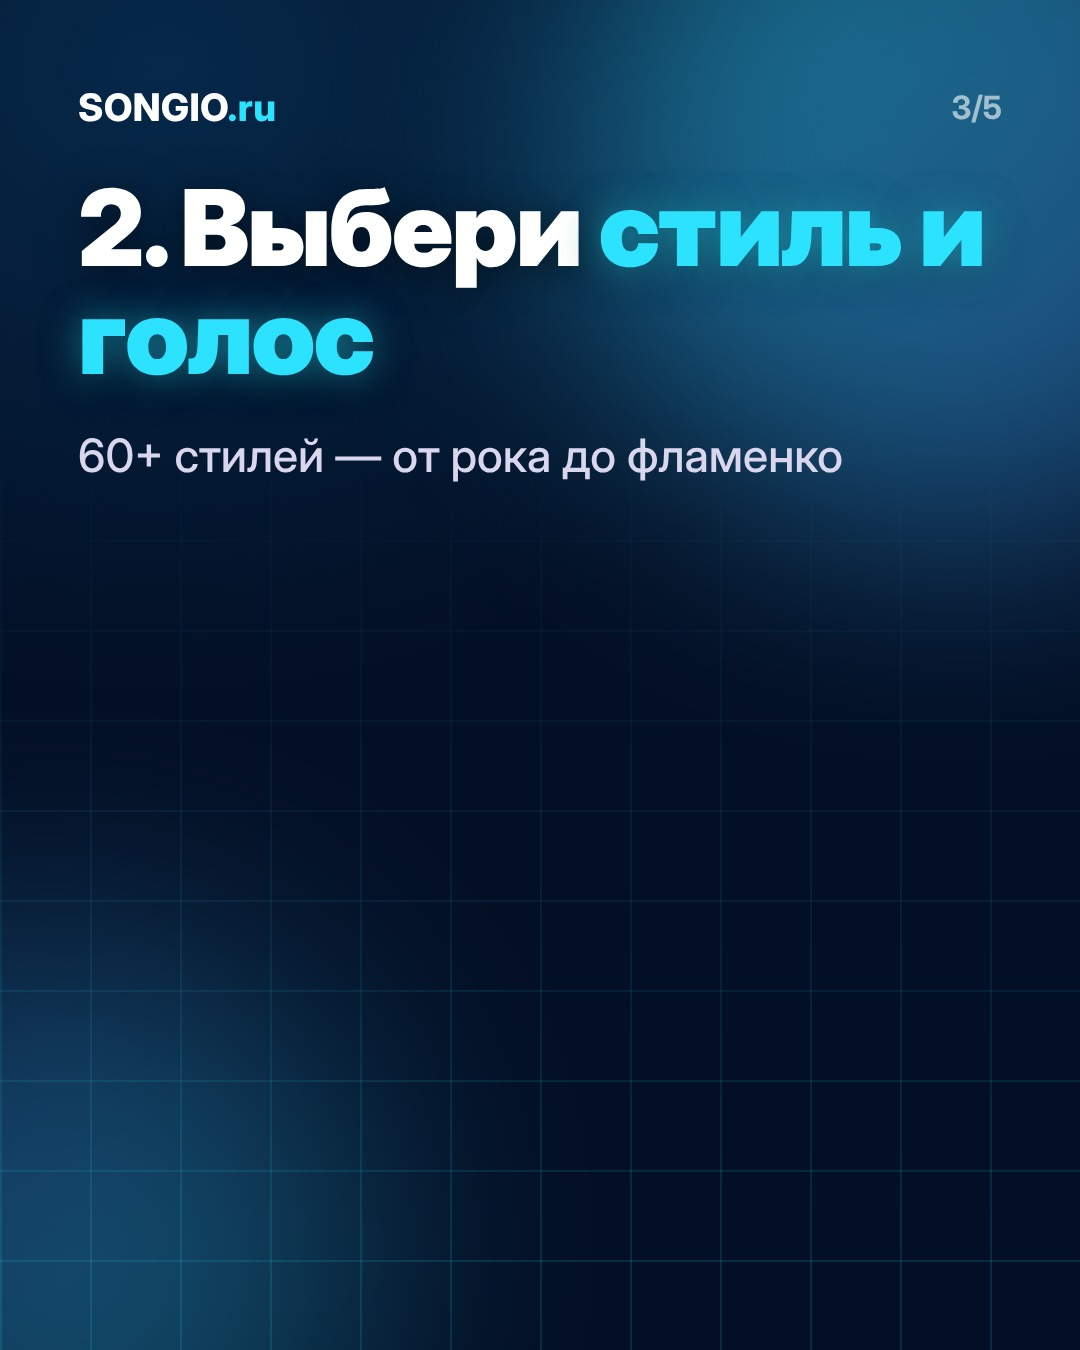
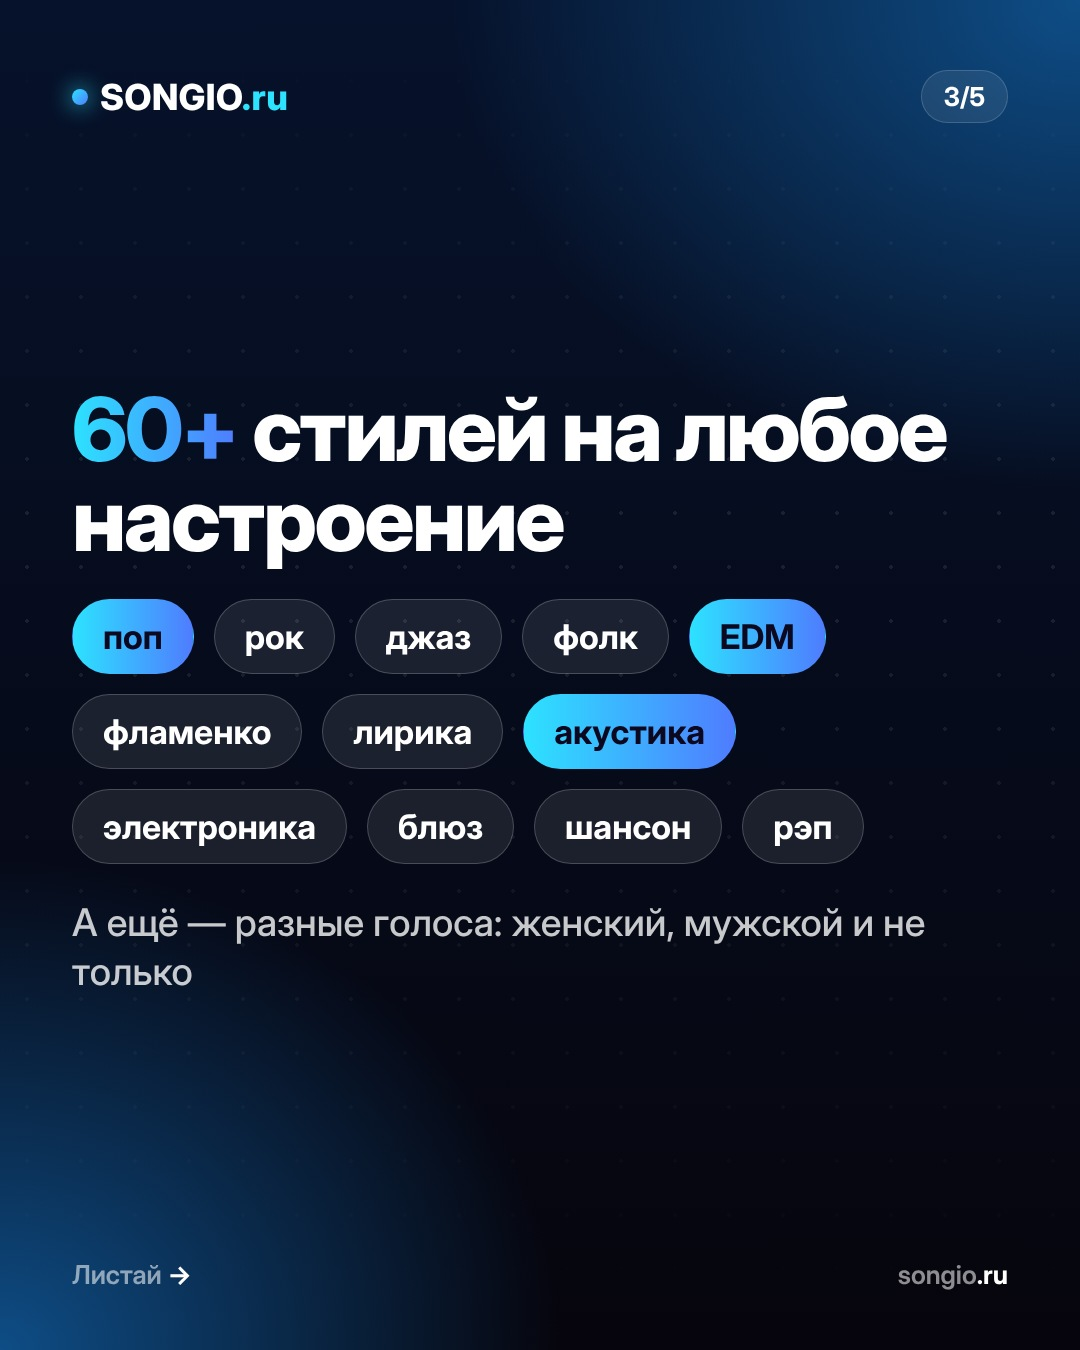
SONGIO 2026-11-20: redesign as infographic cards (glass/bento/player)
Claude-Session: https://claude.ai/code/session_01RuTsTvcxCSgcSybpDJXT3B

diff --git a/songio/make_infographics.py b/songio/make_infographics.py
@@ -1,0 +1,211 @@
+"""SONGIO infographic cards v2 (glass / bento / diagrams), 1080x1350 JPG via headless Chrome.
+Usage: python3 make_infographics.py out_dir [series ...]   (series: fast intro cat)
+Slides are defined in SERIES at the bottom; each is (file, theme, builder-html)."""
+import os, random, subprocess, sys, tempfile, hashlib
+
+W, H = 1080, 1350
+THEMES = {  # accent1, accent2, bg-glow1, bg-glow2
+ "pink":   ("#ff4fb8", "#8b5cf6", "#5b1d7a", "#1a0838"),
+ "cyan":   ("#2de2ff", "#4f7cff", "#0e4d86", "#06122b"),
+ "amber":  ("#ffc247", "#ff5e62", "#7a2a10", "#1f0a06"),
+ "violet": ("#b39dff", "#6d5dfc", "#352a9c", "#0c0929"),
+ "green":  ("#4ff0a0", "#14b8c6", "#0b5a49", "#031712"),
+}
+
+CSS = """
+*{box-sizing:border-box;margin:0;padding:0}
+body{width:1080px;height:1350px;overflow:hidden;position:relative;color:#fff;
+ font-family:'Inter Display','Inter','DejaVu Sans',sans-serif;background:#07060f}
+.bg{position:absolute;inset:0;background:
+ radial-gradient(900px 700px at 100% 0%,var(--g1) 0%,transparent 70%),
+ radial-gradient(800px 700px at 0% 100%,var(--g1) 0%,transparent 70%),
+ linear-gradient(180deg,var(--g2),#06050d)}
+.dots{position:absolute;inset:0;background-image:radial-gradient(rgba(255,255,255,.09) 2px,transparent 2px);background-size:54px 54px;
+ -webkit-mask-image:linear-gradient(180deg,transparent,#000 40%,transparent);mask-image:linear-gradient(180deg,transparent,#000 40%,transparent)}
+.wrap{position:absolute;inset:0;padding:70px 72px 60px;display:flex;flex-direction:column;z-index:3}
+.top{display:flex;justify-content:space-between;align-items:center}
+.logo{font-weight:800;font-size:36px;letter-spacing:.5px;display:flex;align-items:center;gap:12px}
+.logo i{width:16px;height:16px;border-radius:50%;background:linear-gradient(135deg,var(--a),var(--b));box-shadow:0 0 22px var(--a)}
+.logo span{color:var(--a)}
+.pg{font-weight:700;font-size:26px;padding:10px 22px;border-radius:40px;background:rgba(255,255,255,.08);border:1.5px solid rgba(255,255,255,.16)}
+.main{flex:1;display:flex;flex-direction:column;justify-content:center;gap:34px;min-height:0}
+.foot{display:flex;justify-content:space-between;align-items:center;font-size:26px;font-weight:600;color:rgba(255,255,255,.55)}
+.foot b{color:#fff;font-weight:700}
+h1{font-weight:800;font-size:104px;line-height:1.02;letter-spacing:-3px}
+h1.m{font-size:88px;letter-spacing:-2.5px}
+h1 em,.g{font-style:normal;background:linear-gradient(90deg,var(--a),var(--b));-webkit-background-clip:text;background-clip:text;color:transparent}
+.lead{font-size:38px;line-height:1.3;color:rgba(255,255,255,.78);font-weight:500}
+.lead b{color:#fff}
+.glass{background:linear-gradient(160deg,rgba(255,255,255,.12),rgba(255,255,255,.04));border:1.5px solid rgba(255,255,255,.18);
+ border-radius:40px;box-shadow:0 30px 80px rgba(0,0,0,.35)}
+.pill{display:inline-flex;align-items:center;gap:12px;padding:14px 30px;border-radius:60px;font-weight:800;font-size:30px;
+ color:#0b0820;background:linear-gradient(90deg,var(--a),var(--b));align-self:flex-start;box-shadow:0 12px 40px color-mix(in srgb,var(--a) 45%,transparent)}
+.chip{display:inline-block;padding:16px 30px;border-radius:60px;font-size:34px;font-weight:700;background:rgba(255,255,255,.09);border:1.5px solid rgba(255,255,255,.2)}
+.chip.on{background:linear-gradient(90deg,var(--a),var(--b));color:#0b0820;border-color:transparent}
+.btn{align-self:flex-start;padding:26px 52px;border-radius:70px;font-weight:800;font-size:44px;color:#0b0820;
+ background:linear-gradient(90deg,var(--a),var(--b));box-shadow:0 18px 60px color-mix(in srgb,var(--a) 55%,transparent)}
+/* player */
+.player{padding:30px;display:flex;align-items:center;gap:28px}
+.art{width:128px;height:128px;border-radius:30px;flex:none;background:linear-gradient(135deg,var(--a),var(--b));
+ display:flex;align-items:center;justify-content:center;font-size:62px;color:#0b0820;font-weight:800}
+.pl-b{flex:1;min-width:0}
+.pl-t{font-size:32px;font-weight:800;margin-bottom:6px}
+.pl-s{font-size:26px;color:rgba(255,255,255,.6);font-weight:600;margin-bottom:14px}
+.wave{display:flex;align-items:center;gap:5px;height:64px}
+.wave i{flex:1;border-radius:4px;background:rgba(255,255,255,.28);min-width:3px}
+.wave i.on{background:linear-gradient(180deg,var(--a),var(--b))}
+.play{width:84px;height:84px;border-radius:50%;flex:none;background:#fff;display:flex;align-items:center;justify-content:center}
+.play:after{content:"";border-left:28px solid #0b0820;border-top:17px solid transparent;border-bottom:17px solid transparent;margin-left:8px}
+.tag{display:inline-block;font-size:24px;font-weight:800;padding:8px 18px;border-radius:14px;background:rgba(255,255,255,.14);margin-bottom:10px;letter-spacing:.5px}
+/* steps */
+.steps{position:relative;display:flex;flex-direction:column;gap:30px}
+.steps:before{content:"";position:absolute;left:61px;top:80px;bottom:80px;width:5px;border-radius:4px;background:linear-gradient(180deg,var(--a),var(--b));opacity:.55}
+.step{display:flex;gap:34px;align-items:center;padding:34px 38px;position:relative}
+.num{width:90px;height:90px;border-radius:28px;flex:none;background:linear-gradient(135deg,var(--a),var(--b));color:#0b0820;
+ font-weight:800;font-size:44px;display:flex;align-items:center;justify-content:center;box-shadow:0 10px 36px color-mix(in srgb,var(--a) 50%,transparent)}
+.st-t{font-size:48px;font-weight:800;letter-spacing:-1px;margin-bottom:6px}
+.st-s{font-size:30px;color:rgba(255,255,255,.68);font-weight:500;line-height:1.25}
+/* bento */
+.bento{display:grid;grid-template-columns:1fr 1fr;gap:26px}
+.tile{padding:40px 38px;display:flex;flex-direction:column;justify-content:space-between;min-height:290px}
+.tile.w{grid-column:span 2;min-height:220px}
+.big{font-size:128px;font-weight:800;letter-spacing:-5px;line-height:1}
+.tl{font-size:32px;font-weight:600;color:rgba(255,255,255,.72);line-height:1.25;margin-top:14px}
+.tl b{color:#fff}
+.cloud{display:flex;flex-wrap:wrap;gap:20px}
+.arrow{align-self:center;width:0;height:0;border-left:30px solid transparent;border-right:30px solid transparent;border-top:42px solid var(--a);opacity:.9}
+.pm{padding:38px 42px;font-size:44px;line-height:1.38;font-weight:600}
+.pm .k{padding:2px 14px;border-radius:14px;font-weight:700}
+.k1{background:color-mix(in srgb,#ffc247 38%,transparent)}.k2{background:color-mix(in srgb,#ff4fb8 38%,transparent)}
+.k3{background:color-mix(in srgb,#2de2ff 38%,transparent)}.k4{background:color-mix(in srgb,#4ff0a0 38%,transparent)}
+.leg{display:grid;grid-template-columns:1fr 1fr;gap:22px}
+.leg div{display:flex;align-items:center;gap:18px;font-size:34px;font-weight:700}
+.leg s{display:block;width:34px;height:34px;border-radius:11px;flex:none;text-decoration:none}
+.vs{display:flex;flex-direction:column;gap:26px}
+.vs .glass{padding:36px 40px}
+.vs .lab{font-size:26px;font-weight:800;letter-spacing:1px;margin-bottom:12px}
+.vs .tx{font-size:40px;font-weight:600;line-height:1.3}
+.vs .bad .lab{color:#ff8a8a}.vs .good .lab{color:var(--a)}
+.vs .good{border-color:var(--a);box-shadow:0 0 0 2px var(--a),0 30px 80px rgba(0,0,0,.35)}
+/* timeline (video) */
+.tlr{padding:34px;display:flex;flex-direction:column;gap:18px}
+.row{display:flex;gap:12px;height:96px}
+.clip{border-radius:20px;flex:1;display:flex;align-items:center;padding:0 22px;font-size:26px;font-weight:700;color:#0b0820}
+.audio{height:150px;border-radius:24px;border:2px dashed var(--a);padding:0 24px;display:flex;align-items:center;background:rgba(255,255,255,.05)}
+.audio .wave{width:100%;height:96px}
+.rl{font-size:24px;font-weight:700;color:rgba(255,255,255,.6);letter-spacing:1px}
+"""
+
+def wave(seed, n=34, on=0.55):
+    r = random.Random(seed); out = ""
+    for k in range(n):
+        h = int(14 + 50 * abs(__import__("math").sin(k * .42 + r.random())) ** .8 * r.uniform(.6, 1))
+        out += f'<i class="{"on" if k < n*on else ""}" style="height:{h}px"></i>'
+    return f'<div class="wave">{out}</div>'
+
+def player(name, sub, seed, icon="♪", on=.55):
+    return (f'<div class="glass player"><div class="art">{icon}</div><div class="pl-b"><div class="pl-t">{name}</div>'
+            f'<div class="pl-s">{sub}</div>{wave(seed, on=on)}</div><div class="play"></div></div>')
+
+def frame(theme, pg, body, last=False):
+    a, b, g1, g2 = THEMES[theme]
+    hint = '<span>Листай <b>→</b></span>' if not last else '<span></span>'
+    return f"""<!doctype html><html><head><meta charset="utf-8"><style>:root{{--a:{a};--b:{b};--g1:{g1};--g2:{g2}}}{CSS}</style></head>
+<body><div class="bg"></div><div class="dots"></div><div class="wrap">
+<div class="top"><div class="logo"><i></i><u style="text-decoration:none">SONGIO<span>.ru</span></u></div>{f'<div class="pg">{pg}</div>' if pg else ''}</div>
+<div class="main">{body}</div>
+<div class="foot">{hint}<span>songio<b>.ru</b></span></div></div></body></html>"""
+
+def cta(title, sub):
+    return f'<h1 class="m">{title}</h1><p class="lead">{sub}</p><div class="btn">songio.ru &nbsp;→</div>'
+
+# ---------------------------------------------------------------- series
+def S_fast():
+    return [
+     ("fast1.jpg", "violet", "1/5", False,
+      '<div class="pill">● БЕСПЛАТНО</div><h1>Песня <em>за 2 минуты</em></h1><p class="lead">Опиши идею — получи готовый трек на русском</p>'
+      + player("Твоя песня", "Версия A · 2:00", 11, "♪", .45)
+      + '<div style="margin-top:-6px">' + player("Твоя песня", "Версия B · 2:00", 12, "♫", .2) + '</div>'),
+     ("fast2.jpg", "pink", "2/5", False,
+      '<h1 class="m">Как это <em>работает</em></h1><div class="steps">'
+      '<div class="glass step"><div class="num">1</div><div><div class="st-t">Опиши идею</div><div class="st-s">О чём песня и для кого. Или вставь свой текст</div></div></div>'
+      '<div class="glass step"><div class="num">2</div><div><div class="st-t">Выбери стиль и голос</div><div class="st-s">60+ стилей: от рока до фламенко</div></div></div>'
+      '<div class="glass step"><div class="num">3</div><div><div class="st-t">Получи 2 версии</div><div class="st-s">Трек готов примерно через 2 минуты</div></div></div></div>'),
+     ("fast3.jpg", "cyan", "3/5", False,
+      '<h1 class="m"><em>60+</em> стилей на любое настроение</h1><div class="cloud">'
+      + "".join(f'<span class="chip{" on" if i in (0,4,7) else ""}">{t}</span>' for i, t in enumerate(
+        ["поп","рок","джаз","фолк","EDM","фламенко","лирика","акустика","электроника","блюз","шансон","рэп"]))
+      + '</div><p class="lead">А ещё — разные голоса: женский, мужской и не только</p>'),
+     ("fast4.jpg", "green", "4/5", False,
+      '<h1 class="m">SONGIO <em>в цифрах</em></h1><div class="bento">'
+      '<div class="glass tile"><div class="big g">2</div><div class="tl"><b>минуты</b> до готового трека</div></div>'
+      '<div class="glass tile"><div class="big g">×2</div><div class="tl"><b>версии</b> за каждую генерацию</div></div>'
+      '<div class="glass tile"><div class="big g">60+</div><div class="tl"><b>стилей</b> и жанров</div></div>'
+      '<div class="glass tile"><div class="big g" style="font-size:84px;letter-spacing:-3px;padding-top:22px">Бесплатно</div><div class="tl">первая демо-генерация, <b>без карты</b></div></div></div>'),
+     ("fast5.jpg", "violet", "5/5", True,
+      cta("Первая песня <em>бесплатно</em>", "Без карты и подписок. Есть и <b>Telegram-бот</b>")
+      + player("Твоя идея", "Версия A · ждёт тебя", 21, "♪", .0)),
+    ]
+
+def S_intro():
+    clipcols = ["#4ff0a0", "#2de2ff", "#ffc247", "#ff8fd0"]
+    clips = "".join(f'<div class="clip" style="background:{c}">{t}</div>' for c, t in zip(clipcols, ["Интро", "Сцена 1", "Сцена 2", "Финал"]))
+    return [
+     ("intro1.jpg", "green", "1/4", False,
+      '<div class="pill">АВТОРАМ И БЛОГЕРАМ</div><h1>Свой звук <em>для канала</em></h1>'
+      '<div class="glass tlr"><div class="rl">ВИДЕО</div><div class="row">' + clips + '</div>'
+      '<div class="rl">ТВОЙ ТРЕК</div><div class="audio">' + wave(5, 44, .0).replace('class=""', 'class="on"') + '</div></div>'
+      '<p class="lead">Интро и заставка <b>без поиска по стокам</b></p>'),
+     ("intro2.jpg", "cyan", "2/4", False,
+      '<h1 class="m">Идея → <em>трек</em></h1>'
+      '<div class="glass pm"><span class="tag">ТВОЙ ЗАПРОС</span><br>Энергичное <span class="k k1">интро для подкаста</span> про стартапы, <span class="k k3">электроника</span>, <span class="k k4">без вокала</span></div>'
+      '<div class="arrow"></div>'
+      + player("Интро для подкаста", "Версия A · готово", 31, "♪", .6)
+      + '<div style="margin-top:-8px">' + player("Интро для подкаста", "Версия B · готово", 32, "♫", .3) + '</div>'),
+     ("intro3.jpg", "amber", "3/4", False,
+      '<h1 class="m">Где <em>пригодится</em></h1><div class="bento">'
+      '<div class="glass tile"><div class="big" style="font-size:90px">🎙</div><div class="tl"><b>Подкасты</b><br>интро и заставки</div></div>'
+      '<div class="glass tile"><div class="big" style="font-size:90px">📱</div><div class="tl"><b>Рилс и сторис</b><br>свой трек в кадре</div></div>'
+      '<div class="glass tile"><div class="big" style="font-size:90px">▶</div><div class="tl"><b>YouTube</b><br>музыка для роликов</div></div>'
+      '<div class="glass tile"><div class="big" style="font-size:90px">★</div><div class="tl"><b>Бренд</b><br>узнаваемый джингл</div></div></div>'),
+     ("intro4.jpg", "green", "4/4", True,
+      cta("Сделай звук <em>своим</em>", "Первая демо-генерация бесплатно, без карты")),
+    ]
+
+def S_cat():
+    return [
+     ("cat1.jpg", "amber", "1/4", False,
+      '<div class="pill">ПРОМПТ → РЕЗУЛЬТАТ</div><h1>Идея → <em>хит про кота</em></h1>'
+      '<div class="glass pm" style="font-size:40px"><span class="tag">ТЫ ПИШЕШЬ</span><br>Смешная песня про кота, который ненавидит понедельники, рок-н-ролл, мужской голос</div>'
+      '<div class="arrow"></div>' + player("Кот против понедельника", "Рок-н-ролл · 2:00", 41, "🐱", .4)),
+     ("cat2.jpg", "pink", "2/4", False,
+      '<h1 class="m">Из чего <em>состоит</em> хорошая идея</h1>'
+      '<div class="glass pm"><span class="k k1">Герой:</span> кот, который ненавидит понедельники. <span class="k k2">Тон:</span> смешная песня. <span class="k k3">Жанр:</span> рок-н-ролл. <span class="k k4">Голос:</span> мужской</div>'
+      '<div class="leg"><div><s style="background:#ffc247"></s>Герой</div><div><s style="background:#ff4fb8"></s>Тон</div>'
+      '<div><s style="background:#2de2ff"></s>Жанр</div><div><s style="background:#4ff0a0"></s>Голос</div></div>'),
+     ("cat3.jpg", "cyan", "3/4", False,
+      '<h1 class="m">Размыто <em>vs</em> конкретно</h1><div class="vs">'
+      '<div class="glass bad"><div class="lab">✕ РАЗМЫТО</div><div class="tx">Песня про кота</div></div>'
+      '<div class="glass good"><div class="lab">✓ КОНКРЕТНО</div><div class="tx">Смешная песня про кота, который ненавидит понедельники, рок-н-ролл, мужской голос</div></div></div>'
+      '<p class="lead">Чем точнее описание, тем ближе трек к твоей идее</p>'),
+     ("cat4.jpg", "amber", "4/4", True,
+      cta("Что споёшь <em>ты</em>?", "Первая демо-генерация бесплатно, без карты. Каждый раз — <b>2 версии</b>")),
+    ]
+
+SERIES = {"fast": S_fast, "intro": S_intro, "cat": S_cat}
+
+def render(out, names):
+    from PIL import Image
+    os.makedirs(out, exist_ok=True)
+    for n in names:
+        for fn, theme, pg, last, body in SERIES[n]():
+            with tempfile.TemporaryDirectory() as td:
+                hp, png = os.path.join(td, "c.html"), os.path.join(td, "c.png")
+                open(hp, "w", encoding="utf-8").write(frame(theme, pg, body, last))
+                subprocess.run(["google-chrome", "--headless=new", "--no-sandbox", "--disable-gpu", "--hide-scrollbars",
+                    f"--window-size={W},{H}", f"--screenshot={png}", "--force-device-scale-factor=1", "file://" + hp],
+                    check=True, capture_output=True, timeout=120)
+                Image.open(png).convert("RGB").crop((0, 0, W, H)).save(os.path.join(out, fn), quality=93)
+
+if __name__ == "__main__":
+    render(sys.argv[1], sys.argv[2:] or list(SERIES))
